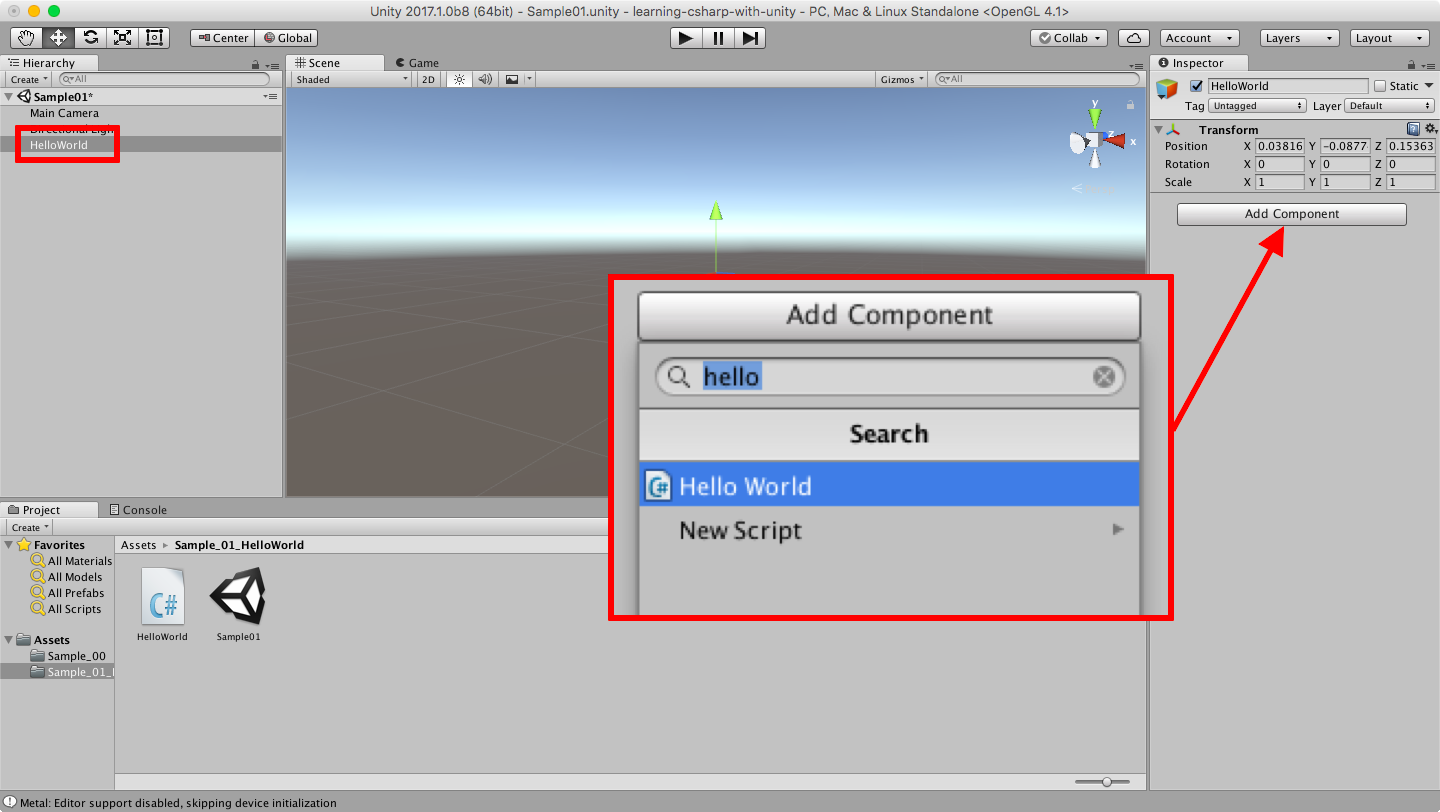
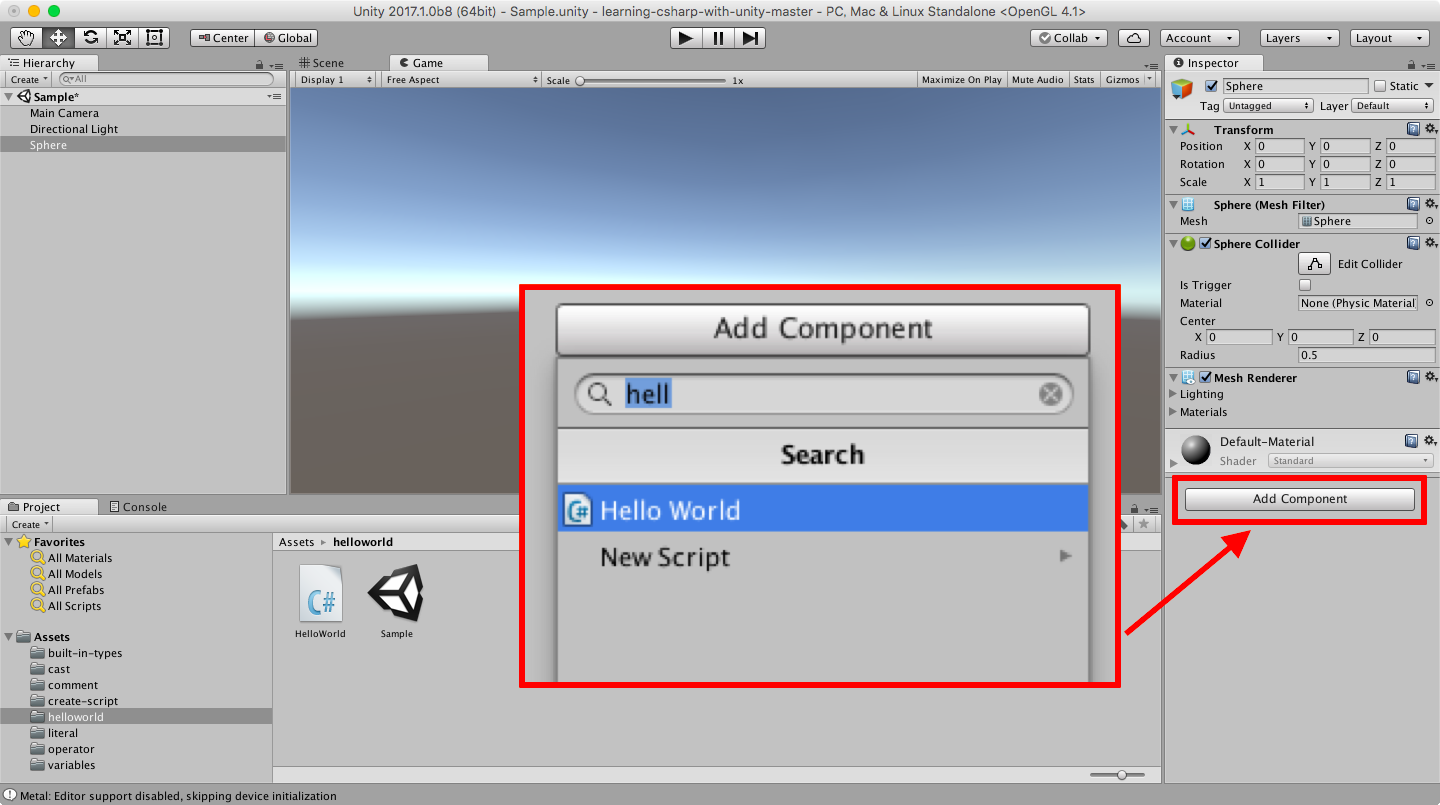
edit

diff --git a/PITCHME.md b/PITCHME.md
@@ -190,9 +190,27 @@ Unity興味ある
 
 +++
 
-## Unityでの開き方
+## サンプルの開き方
 
-ほげほげ
++++
+
+まずはダウンロード
+
+![](gitpitch/img/preparation/open-in-unity.png)
+
+Clone or Download -> Download ZIP
+
++++
+
+![](gitpitch/img/preparation/select-folder.png)
+
+解凍してUnityで開く
+
++++
+
+![](gitpitch/img/preparation/sample-folders.png)
+
+各フォルダにサンプルファイルが入っています
 
 ---
 
@@ -320,17 +338,9 @@ Hierarchy -> Create -> Create Empty
 
 +++
 
-![](gitpitch/img/helloworld/helloworld-empty-object.png)
+![](gitpitch/img/helloworld/helloworld-sphere.png)
 
-`GameObject` という名前のモノが作られた。
-
-+++
-
-![](gitpitch/img/helloworld/helloworld-rename.png)
-
-分かりにくいのでリネームしましょう。
-
--> `HelloWorld`
+`Sphere` という名前のモノが作られた。
 
 +++
 
